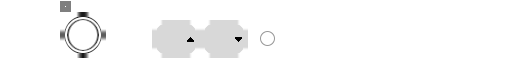
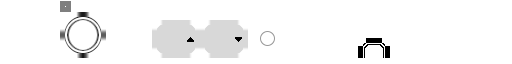
Better border for defence counter

Changed region(s): [[0.6875, 0.5938, 0.7812, 0.9062]]

diff --git a/core/src/com/unciv/models/skins/SkinStrings.kt b/core/src/com/unciv/models/skins/SkinStrings.kt
@@ -12,6 +12,7 @@ class SkinStrings(skin: String = UncivGame.Current.settings.skin) {
     // Default shapes must always end with "Shape" so the UiElementDocsWriter can identify them
     val roundedEdgeRectangleSmallShape = skinLocation + "roundedEdgeRectangle-small"
     val roundedTopEdgeRectangleSmallShape = skinLocation + "roundedTopEdgeRectangle-small"
+    val roundedTopEdgeRectangleSmallBorderShape = skinLocation + "roundedTopEdgeRectangle-small-border"
     val roundedEdgeRectangleMidShape = skinLocation + "roundedEdgeRectangle-mid"
     val roundedEdgeRectangleMidBorderShape = skinLocation + "roundedEdgeRectangle-mid-border"
     val roundedEdgeRectangleShape = skinLocation + "roundedEdgeRectangle"

diff --git a/core/src/com/unciv/ui/tilegroups/CityButton.kt b/core/src/com/unciv/ui/tilegroups/CityButton.kt
@@ -229,9 +229,9 @@ class CityButton(val city: CityInfo, private val tileGroup: WorldTileGroup): Tab
             innerColor = Color.BLACK,
             borderColor = borderColor,
             defaultInner = BaseScreen.skinStrings.roundedTopEdgeRectangleSmallShape,
-            defaultBorder = BaseScreen.skinStrings.roundedTopEdgeRectangleSmallShape,
+            defaultBorder = BaseScreen.skinStrings.roundedTopEdgeRectangleSmallBorderShape,
             borderSize = 4f)
-        table.pad(3f, 3f, 0f, 3f)
+        table.pad(2f, 3f, 0f, 3f)
 
         val cityStrength = CityCombatant(city).getDefendingStrength()
         val cityStrengthLabel = "${Fonts.strength}$cityStrength".toLabel(fontSize = 12)
